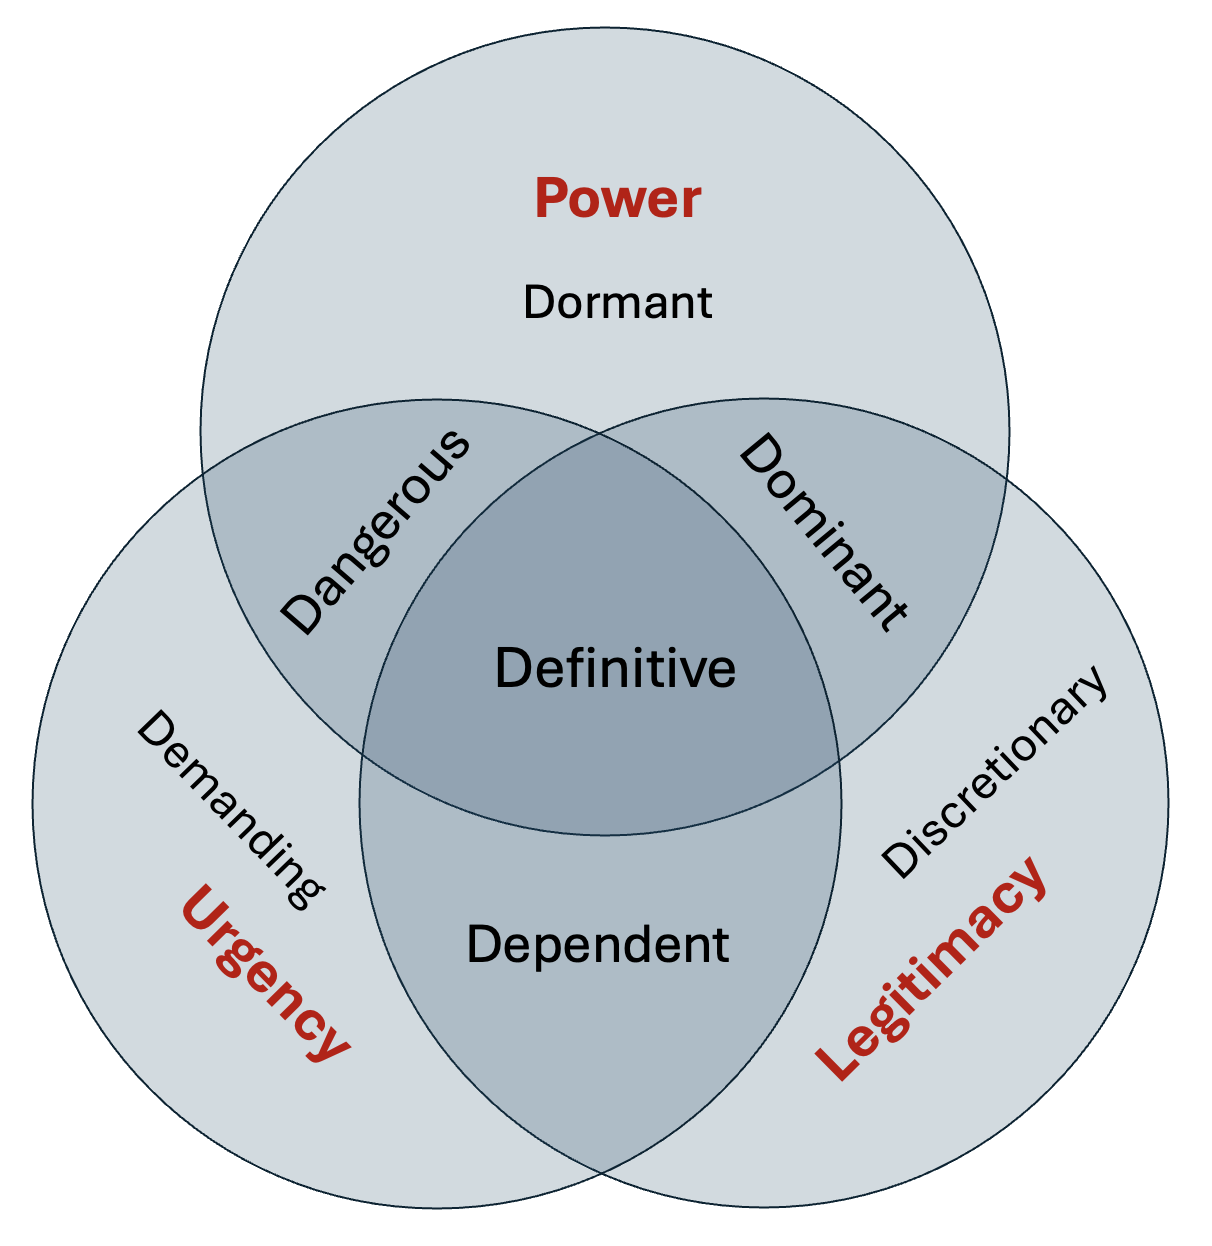
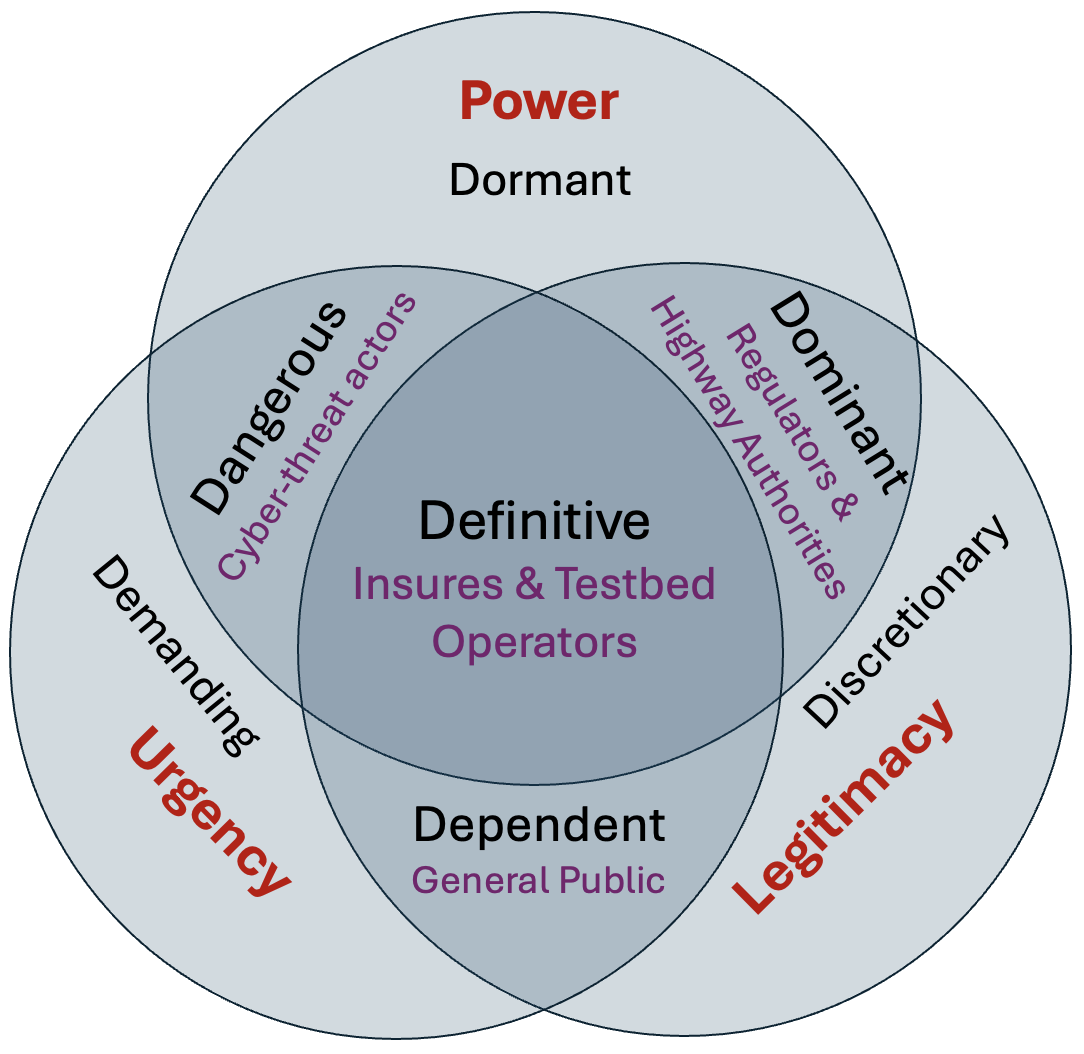
Update combined report refs/citations and figures

diff --git a/latex/CombinedFinal/main_single_file.tex b/latex/CombinedFinal/main_single_file.tex
@@ -1403,18 +1403,9 @@ This chapter presents the accumulator design for the FS vehicle. Objectives are 
 
 The chapter is structured as follows: Section~\ref{sec:technology_selection} covers technology selection; Section~\ref{sec:electrical_system_design} covers electrical design; Section~\ref{sec:mechanical_design_packaging} covers mechanical packaging; Section~\ref{sec:results_discussion} presents results; and Section~\ref{sec:future_improvements_conclusion} outlines future work and concludes.
 
-\subsection{Project Scope}
-The design encompasses the following scope:
-\begin{itemize}
-    \item Technology and cell selection for an acceleration-only duty cycle.
-    \item Electrical architecture at pack and segment level.
-    \item FS-required in-casing electrical safety measures.
-    \item AMS slave-to-master monitoring architecture and master interface to the vehicle ECU.
-    \item Mechanical packaging of segment modules and accumulator container layout.
-    \item Analytical verification against requirements and comparison with alternatives.
-\end{itemize}
+This chapter covers technology and cell selection for an acceleration-only duty cycle; electrical architecture at pack and segment level; in-casing electrical safety measures required by the Formula Student rules; the AMS slave-to-master monitoring architecture and its interface to the vehicle ECU; mechanical packaging of segment modules and accumulator container layout; and analytical verification against requirements and key alternatives.
 
-The following items are treated as out of scope for detailed derivation in this document and are stated as future or external work: all safety and charging systems outside the accumulator casing, full AMS firmware implementation, full manufacturing process planning, exhaustive scrutineering documentation, and complete physical test campaign data.
+Safety and charging systems outside the accumulator casing, full AMS firmware implementation, detailed manufacturing process planning, exhaustive scrutineering documentation, and complete physical test campaign data are treated as out of scope.
 
 \section{Technology Selection}
 \label{sec:technology_selection}
@@ -1423,7 +1414,7 @@ The following items are treated as out of scope for detailed derivation in this 
 Due to the nature of the acceleration-only event, the primary design driver is peak power delivery rather than total energy capacity. This shifts the focus towards technologies with high power density.
 
 To compare energy storage technologies, the following criteria were defined: (1) power output, (2) total energy capacity, and (3) a combined optimisation objective covering mass, volume, cost, and procurement risk.
-FS rules limit TS power at the TSAC outlet to 80 kW (FS-EV~2.2.1). Power is treated as constant as a conservative estimate, assuming traction-limited periods are brief relative to total run time. Event duration is set to \SI{4}{\second}, based on top Formula Student performances of \SI{3.5}{\second}.
+FS rules limit TS power at the TSAC outlet to 80 kW (FS-EV~2.2.1). Power is treated as constant for an initial conservative energy estimate, assuming traction-limited periods are brief relative to total run time. Event duration is set to \SI{4}{\second}, based on top Formula Student performances of \SI{3.5}{\second}.
 
 The required energy capacity is calculated as:
 \vspace{6pt}
@@ -1476,7 +1467,7 @@ Using this metric, asymmetric / hybrid supercapacitors are best; however, they a
 \label{subsec:supercapacitor_analysis}
 
 Supercapacitors are treated as the primary candidate, with lithium-polymer cells used as a benchmark. Electric Double Layer Capacitor (EDLC) devices are selected within the symmetric supercapacitor class due to relatively high energy capacity. Energy for capacitors is given by:
-\vspace{6pt}
+\vspace{3pt}
 \begin{equation}
 E=\frac{1}{2}CV^2 = \frac{1}{2} C (V_{max}^2-V_{min}^2)
 \label{eq:capacitor_energy}
@@ -1485,26 +1476,25 @@ E=\frac{1}{2}CV^2 = \frac{1}{2} C (V_{max}^2-V_{min}^2)
 where $E$ is energy (J), $C$ is capacitance (F), and $V$ is voltage (V).
 
 From Equation \eqref{eq:capacitor_energy}, voltage sag significantly affects usable energy capacity, necessitating careful consideration of voltage ranges. The upper limit is set by FS-EV maximum voltage regulation (600\,V per FS-EV~4.1.1), while the lower limit is determined by inverter and motor minimum operating requirements. The powertrain operating strategy in Section~\ref{subsec:powertrain_motor_operation} indicates the motor can be controlled under the power cap with an effective operating voltage on the order of \SI{350}{\volt}, so \SI{400}{\volt} is adopted here as a conservative design minimum.
-
-\vspace{6pt}
+\vspace{3pt}
 \begin{equation}
 C=\frac{2 E}{V_{max}^2-V_{min}^2}=\frac{2 \cdot 320\text{ kJ}}{600\text{ V}^2-400\text{ V}^2}=3.2\text{ F}
 \label{eq:required_capacitance}
 \end{equation}
 
 To achieve the required capacitance of 3.2 F at 600 V, cells are connected in series. The general relation for non-identical cells reduces to the equally rated case as:
-\vspace{6pt}
+\vspace{3pt}
 \begin{equation}
 \frac{1}{C_{total}} = \sum_{i=1}^{n} \frac{1}{C_{i}}\;\Rightarrow\;C_{series}=\frac{C_{i}}{n}
 \label{eq:series_capacitance}
 \end{equation}
 
-Where \(C_i\) is the individual cell capacitance, and n is the number of cells in series.
+where \(C_i\) is the individual cell capacitance, and n is the number of cells in series.
 
 For the design specification, assuming a cell voltage of 3 V, 200 cells are required in series to reach 600 V. To achieve the required capacitance of 3.2 F, cells must provide 640 F capacitance.
 
 Another key parameter is the Equivalent Series Resistance (ESR), which becomes an important consideration for series-connected supercapacitor cells. The voltage evolution during constant-power discharge is modelled via the following first-order differential equation:
-\vspace{6pt}
+\vspace{3pt}
 \begin{equation}
 \frac{dV}{dt} = -\frac{P}{C \cdot V} - \frac{P^2 \cdot R_{total}}{C \cdot V^3}
 \label{eq:pack_voltage_dynamics}
@@ -1542,19 +1532,19 @@ Figure \ref{fig:supercap_discharge} shows the voltage and current evolution duri
 
 \subsection{Tolerance Analysis}
 
-The supercapacitor datasheet gives a capacitance tolerance of +0--20\% (typically +5--10\%). This tolerance dominates electrical spread and therefore defines the binning benefit analysis.
+The supercapacitor datasheet gives a capacitance tolerance of +0--20\% (typically +5--10\%). This tolerance dominates cell-to-cell capacitance mismatch in a series string, which drives the required passive balancing duty; binning can reduce mismatch and therefore reduce balancing demand (see Section~\ref{subsec:electrical_design}).
 
 Cells are supplied in packs of 90, requiring purchase of three packs and selection of the best 200 cells. For this event, selection is simplified to maximising capacitance rather than minimising variance because balancing heat is not expected to be the limiting factor.
 
 The cell capacitances are modelled using a beta distribution:
-\vspace{6pt}
+\vspace{3pt}
 \begin{equation*}
 T = 0.2*Beta(\alpha = 3, \beta = 5)
 \end{equation*}
 
 Selecting the highest cells, the expected accumulator capacitance is calculated using Equation~\eqref{eq:series_capacitance}.
 
-Performing this Monte Carlo binning simulation to find average mean total capacitance and capacitance range, we obtain the following improvements to our initial model:
+Performing this Monte Carlo binning simulation to find average mean total capacitance and capacitance range gives the improvements summarised in Table~\ref{tab:capacitance_binning_results}.
 
 \begin{table}[htbp]
     \centering
@@ -1611,7 +1601,7 @@ The two remaining candidates (EDLC and LiPo) are compared on mass, volume, cost,
 Two different methodologies are used to estimate mass and volume for the two technologies. For LiPo, the top-down BatPac simulation tool \cite{batpac2022manual} determines a mass-sensitive pack design. Inputs characterise both the FS regulations and the acceleration focus whilst retaining physical accuracy. An asterisk is placed next to mass in the table, as this is not total mass (which cannot yet be determined) but the sum of cell mass and other technology-specific masses. For LiPo this includes heavier pack hardware and thermal management, whilst for SC only lighter pack hardware weight is included. The supercapacitor cell mass and volume are calculated using a bottom-up approach based on the selected cell (SC1) specifications \cite{sech-c46w-3r0-0600}. Whilst LiPo pouch cells can be more tightly packed than cylindrical SC cells, they require more mechanical support, so cell volume is an accurate relative indicator of total volume for this comparison.
 
 A weighted scoring system is applied using the following formulation:
-\vspace{6pt}
+\vspace{3pt}
 \begin{equation*}
 \text{Score} = \frac{\text{Best Value in Category}}{\text{Component Value}} \cdot \text{Weight}
 \end{equation*}
@@ -1625,7 +1615,7 @@ Whilst LiPo is advantageous in our weighted scoring analysis, it does not consid
 
 \subsection{System Architecture Overview}
 
-Figure~\ref{fig:electronics_architecture} shows the top-level accumulator architecture. This section is structured from power-path implementation to supervisory control: busbar design, safety design, monitoring and control, and finally system integration. The architecture consists of five high-voltage (HV) segments, each monitored by AMS slaves (MC33771), communicating with the AMS master (FRDM33664BEVB) via the MC33664 TPL interface \cite{nxp-mc33771-ds}. The low-voltage (LV) control domain interfaces to the vehicle ECU (STM32 Nucleo-F4 \cite{stm32-nucleo-f4}) over CAN, using the SN65HVD230 transceiver \cite{ti-sn65hvd230-ds}. Additional key components include Bussmann 170M1759 fusing at inter-segment \cite{eaton-bussmann-170m1759-ds}, and an EarthX ETX12A 12 V supply battery \cite{earthx-etx12a-ds}. External charging and vehicle shutdown-chain implementation are outside the scope of this section.
+Figure~\ref{fig:electronics_architecture} shows the top-level accumulator architecture. This section is structured from power-path implementation to supervisory control: busbar design, safety design, monitoring and control, and finally system integration. The architecture consists of five high-voltage (HV) segments, each monitored by AMS slaves (MC33771 \cite{nxp-mc33771-ds}), communicating with the AMS master (FRDM33664BEVB \cite{nxp-frdm33664bevb-ug}) via the MC33664 TPL interface \cite{nxp-mc33664-ds}. The low-voltage (LV) control domain interfaces to the vehicle ECU (STM32 Nucleo-F4 \cite{stm32-nucleo-f4}) over CAN, using the SN65HVD230 transceiver \cite{ti-sn65hvd230-ds}. Additional key components include Bussmann 170M1759 fusing at inter-segment \cite{eaton-bussmann-170m1759-ds}, and an EarthX ETX12A 12 V supply battery \cite{earthx-etx12a-ds}. External charging and vehicle shutdown-chain implementation are outside the scope of this section.
 
 \begin{figure}[!htbp]
     \centering
@@ -1639,7 +1629,7 @@ Figure~\ref{fig:electronics_architecture} shows the top-level accumulator archit
 Supercapacitors are connected via busbars rather than direct cell-to-cell welding for thermal expansion management and assembly accessibility. Busbar material selection minimises $\rho_{e} \cdot \rho_{m}$, where $\rho_{e}$ is electrical resistivity and $\rho_{m}$ is mass density. Although copper exhibits superior electrical performance, aluminium 1005 was specified for compatibility with aluminium cell terminals.
 
 Busbar connection area is matched to the terminal diameter, $d_{t}$, with average busbar length $L$ and target resistance per connection, $R$. The required thickness is calculated as:
-\vspace{6pt}
+\vspace{3pt}
 \begin{equation*}
 t = \frac{\rho_{e} L}{R d_{t}} = \frac{\left(2.8 \times 10^{-8}\,\Omega\,\text{m}\right)\left(50 \times 10^{-3}\,\text{m}\right)}{\left(0.1 \times 10^{-3}\,\Omega\right)\left(10 \times 10^{-3}\,\text{m}\right)} = 1.41\,\text{mm} \approx 1.45\,\text{mm} \text{ (standard 15 gauge)}
 \end{equation*}
@@ -1721,7 +1711,7 @@ The electrical requirement of 200 series-connected cells necessitates segmentati
 
 \begin{figure}[!htbp]
     \centering
-    \includegraphics[width=0.8\textwidth]{figures/renders/segment.png}
+    \includegraphics[width=0.9\textwidth]{figures/renders/segment.png}
     \caption{Accumulator segment design without enclosure and busbar connections.}
     \label{fig:main_segment}
 \end{figure}
@@ -1738,7 +1728,7 @@ Fuses are mounted to the casing and their exact position varies by segment becau
 
 \begin{figure}[!htbp]
     \centering
-    \includegraphics[width=0.9\textwidth]{figures/renders/main4.png}
+    \includegraphics[width=1\textwidth]{figures/renders/main4.png}
     \caption{Accumulator design with lid removed for visibility.}
     \label{fig:main_accumulator}
 \end{figure}
@@ -3077,7 +3067,7 @@ This integrates the Chapter 6 customer logic with the market-access logic: CAM t
 
 Finally, the TaaS model aligns sustainability with commercial incentives. As a Use/Result-Oriented Product-Service System (PSS), it aggregates demand, reduces redundant OEM fleet manufacturing, and (through retained ownership) incentivises 9R circular practices. Sustainability is delivered through lifecycle extension, remanufacturing loops, and recyclable Expanded Polypropylene (EPP) sacrificial shells that reduce embodied carbon.
 
-The strategic through-line of this report is that UK autonomous vehicle developers face a simulation-to-reality validation gap: existing solutions are either too virtual, too slow to reconfigure, or too capital-intensive for repeated edge-case testing. The AEB Rabbit addresses this gap by offering high-dynamics physical validation as a Testing-as-a-Service (TaaS) platform embedded within UK CAM testbeds. This strategy creates value for AV developers, testbed operators, insurers, regulators, and the enterprise itself, but only if three conditions are met: testbed acceptance, credible safety evidence, and sufficient utilisation to justify the asset-heavy service model.
+\noindent\textbf{Strategic through-line:} UK autonomous vehicle developers need repeatable physical edge-case validation without owning and maintaining target fleets. Embedding the AEB Rabbit as a Testing-as-a-Service (TaaS) platform within UK CAM testbeds creates value for AV developers, testbed operators, insurers, regulators, and the enterprise itself, but only if three conditions are met: testbed acceptance, credible safety evidence, and sufficient utilisation to justify the asset-heavy service model.
 
 At prototype stage, the enterprise should not claim full certification or compliance. Instead, the strategic objective is to design the platform, data architecture, and operating procedures with reference to relevant PAS frameworks so that future commercial trials can progress toward formal acceptance.
 
@@ -3103,7 +3093,7 @@ The system provides physical ground-truth to validate UK investments in virtual 
 
 There is precedent for grant-funded test-target procurement within CAM Testbed UK. For example, a recent £5.8M project at the Culham Science Centre funded a motorised pedestrian dummy to expand safety test options \cite[p.~2]{culham_2024}. Our TaaS model extends this logic to an unaddressed gap: highly dynamic, high-mass vehicular targets.
 
-The UK is therefore not selected simply because the project is UK-based. It is selected because it combines policy support, CAM-specific test infrastructure, emerging automated vehicle legislation, BSI PAS safety frameworks, insurance and liability stakeholders, and public funding into a concentrated adoption ecosystem. Larger international markets may offer greater long-term scale, but the UK provides a lower-friction first market in which the enterprise can generate evidence, secure testbed credibility, and build regulatory legitimacy before expansion.
+The UK is selected as the initial beachhead because it concentrates CAM testbed infrastructure, active policy and legislative momentum, and PAS-aligned safety governance, enabling rapid piloting and credible evidence generation. While larger markets may offer greater long-term scale, the UK provides a lower-friction first market to secure testbed credibility and build regulatory legitimacy before expansion.
 
 \noindent\textbf{Implication:} the UK CAM ecosystem makes testbeds the most logical initial route to market, because they concentrate the infrastructure, customers, regulators, and safety expectations needed to prove the service.
 
@@ -3115,7 +3105,7 @@ Rather than forcing end-users into capital-intensive (CAPEX) hardware purchases,
 
 \subsection{Hardware Specialisation: The "Sprint" Advantage}
 
-This TaaS strategy is enabled by the mechanical profile of the adapted Formula Student (FS) architecture. The AEB Rabbit is designed for short, high-power manoeuvres rather than long duty cycles (Section~\ref{sec:final_run}).
+This TaaS strategy is enabled by the mechanical profile of the adapted Formula Student (FS) architecture. The AEB Rabbit is designed for short, high-power manoeuvres rather than long duty cycles (Figure~\ref{tab:optim_result}).
 
 While this profile would limit direct ownership use-cases, it matches the envelope required to simulate extreme dynamic edge cases. In the TaaS model, customers buy the validated data from a "panic" manoeuvre while the enterprise manages duty-cycle constraints using the accumulator's repeatable short-duty-cycle power delivery (Figure~\ref{fig:supercap_discharge}).
 
@@ -3131,16 +3121,16 @@ The platform uses a modular architecture to support rapid trackside recovery. St
 
 \noindent\textbf{Implication:} TaaS converts the AEB Rabbit's short-duty-cycle sprint capability from a hardware limitation into a service advantage, because customers buy validated panic-manoeuvre evidence rather than vehicle ownership.
 
-Building on the customer-segmentation and product-market fit analysis in Section~\ref{sec:target_market_selection} and the customer personas in Section~\ref{sec:personas}, this chapter focuses on a different question: which stakeholders control adoption, legitimacy, and market access?
-
 \section{Stakeholder Salience Identification}
+
+Building on the customer-segmentation and product-market fit analysis in Section~\ref{sec:target_market_selection} and the customer personas in Section~\ref{sec:personas}, this chapter focuses on a different question: which stakeholders control adoption, legitimacy, and market access?
 
 \subsection{Introduction to the model}
 
 \begin{figure}[h]
 \centering
-\includegraphics[width=0.5\textwidth]{figures/StakeholderVennDiagram.png}
-\caption{Redrawn Stakeholder Typology from Mitchell Stakeholder Salience Model \cite{mitchell_1997}}
+\includegraphics[width=0.6\textwidth]{figures/StakeholderVennDiagram.png}
+\caption{Redrawn Stakeholder Typology from Mitchell Stakeholder Salience Model \cite{mitchell_1997} applied to the CAM testing ecosystem.}
 \label{fig:stakeholder_salience_typology}
 \end{figure}
 
@@ -3315,7 +3305,7 @@ At the macro-business level, the TaaS model is a Result-Oriented Product-Service
 \subsection{The 9R Framework Application}
 \label{sec:9r_framework_application}
 
-To achieve absolute alignment between environmental sustainability and commercial efficiency, the enterprise governs its lifecycle strategy through the 9R Circular Economy Framework \cite[p.~5]{potting_2017}. Because asset ownership is retained under the TaaS model, we are financially incentivised to maximise hardware lifespan. At the macro-level, this overarching Product-Service System (PSS) successfully executes the framework's highest tiers-Smarter product use and manufacture (R0-R2)-by refusing redundant OEM manufacturing and reducing overall material extraction across the industry.
+To achieve absolute alignment between environmental sustainability and commercial efficiency, the enterprise governs its lifecycle strategy through the 9R Circular Economy Framework \cite[p.~5]{potting_2017}. Because asset ownership is retained under the TaaS model, we are financially incentivised to maximise hardware lifespan. At the macro-level, this overarching Product-Service System (PSS) successfully executes the framework's highest tiers: Smarter product use and manufacture (R0-R2) by refusing redundant OEM manufacturing and reducing overall material extraction across the industry.
 
 However, at the micro-level, we face a critical engineering constraint: the reliance on the foundational Formula Student (FS) vehicle architecture. Because the base chassis and drivetrain materials are predetermined by this inherited design, the enterprise cannot optimise the platform's initial embodied carbon. To counter this, we deploy a modular hardware strategy designed to keep inherited materials at their highest utility despite the intense mechanical stress and frequent collisions of track testing. Consequently, our hardware management is categorised across three core subsystems, mapping directly to the framework's subsequent mandates to Extend lifespan (R3-R7) and ensure the Useful application of materials (R8-R9):
 
@@ -3700,8 +3690,10 @@ This differentiated approach allows the system to balance responsiveness and inv
 Overall, the supply chain can be characterised as a centralised, agile, and failure-driven system, where decisions are adapted to uncertainties associated with different components. And the strategy reflects a strong alignment between system requirements and supply chain design, ensuring that operational continuity is maintained under uncertain conditions.
 
 \section{Supply Chain Planning}
+\label{sec:supply_chain_planning}
 
 \subsection{Planning Framework}%**
+\label{subsec:supply_chain_planning_framework}
 
 Given the operational nature of the system, supply chain planning is driven by the objective of maximising system availability through effective management of failure risk.
 
